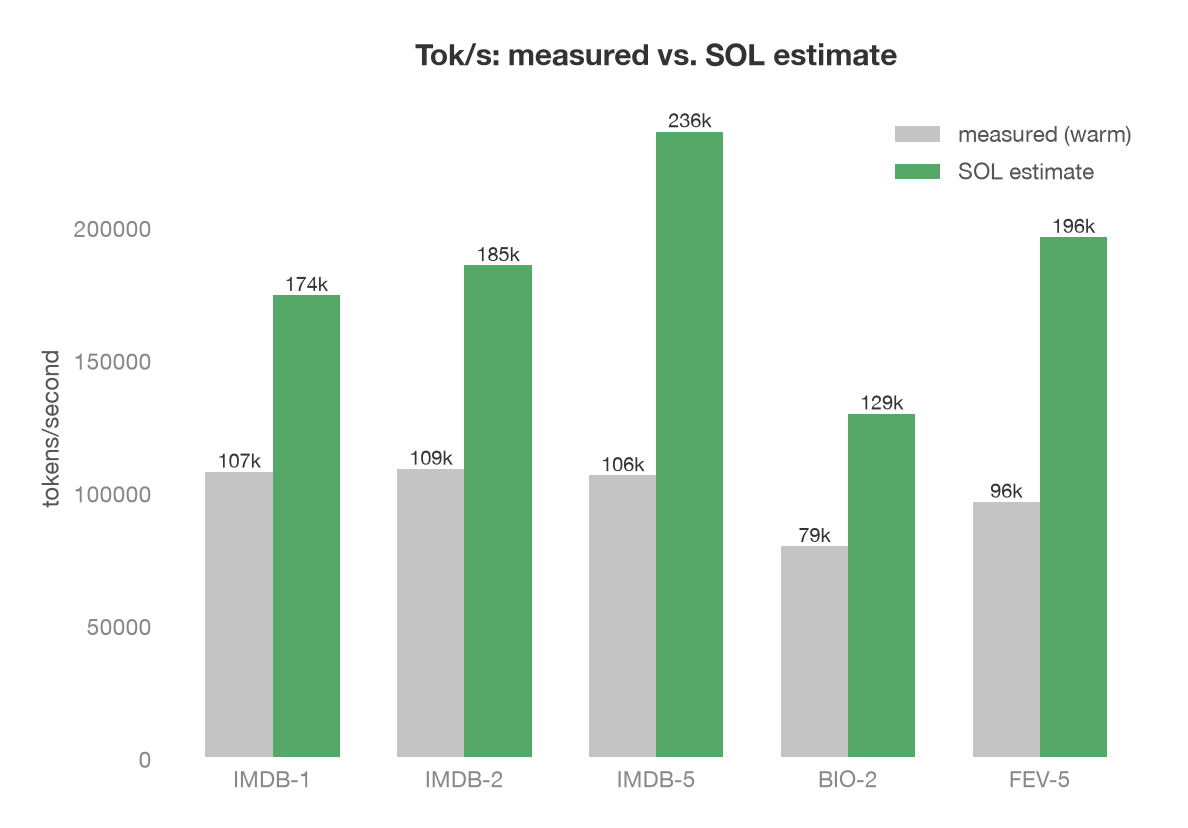
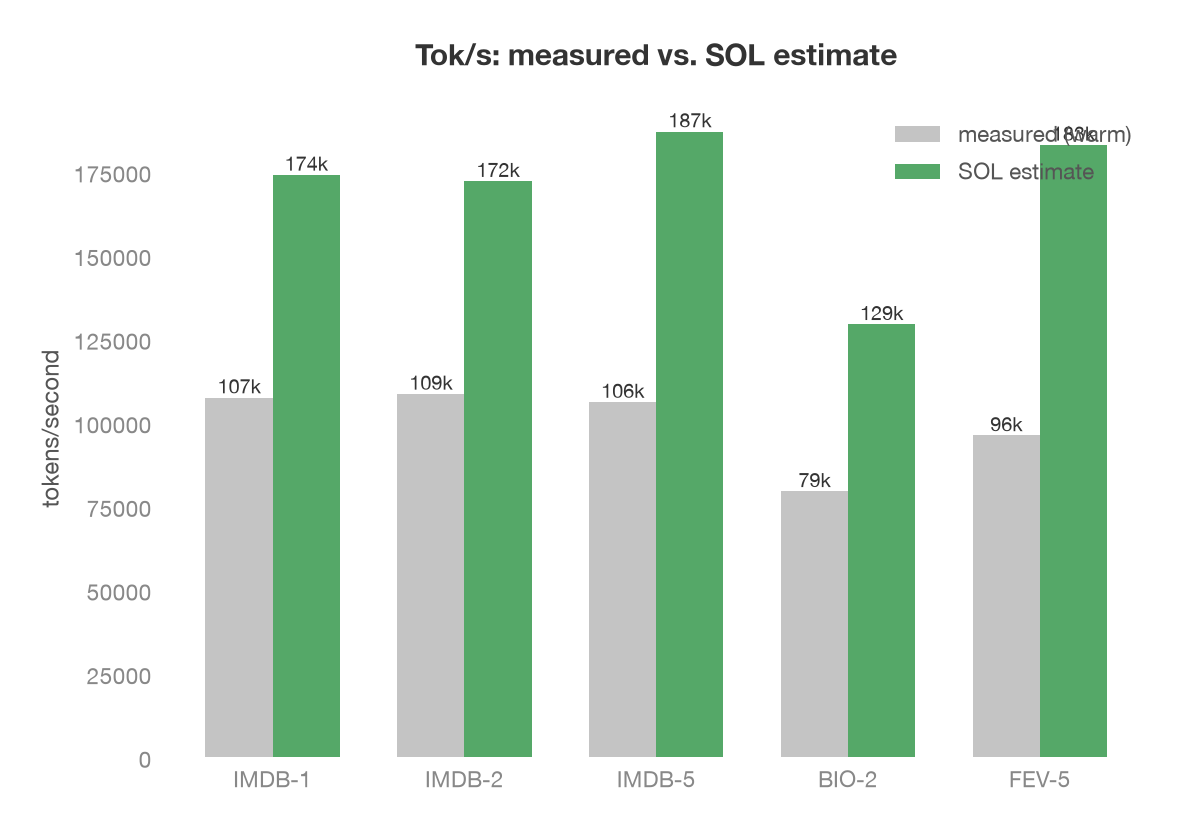
Fix tokens_per_s_sol mixing cold-pass tokens with warm-pass sol_s
build_rows() divided `tokens` (size_src, prefers the cold pass -
the full, restore-free corpus) by `sol_s` (rate_src, prefers the
warm pass - discounted for any KV-store restores). Whenever a query
had real restores, this stapled together two different passes'
numbers: docs_per_s_sol and cost_sol were unaffected (document count
doesn't change between passes, and cost_sol only uses sol_s), but
tokens_per_s_sol came out inflated, up to 26% on the validated data
(IMDB-5: 236k instead of 187k). Confirmed by checking the section's
own claimed invariant - SOL-to-measured ratio equals 1/efficiency -
against the real committed results: it held exactly for docs_per_s
and cost, but not tokens_per_s, for every query with restores.

Fixed by dividing sol_s against the same pass's own fresh_tokens
(rate_src, not size_src). Updated the one test that asserted the old
(buggy) cross-pass division, corrected the report's Tok/s (SOL)
column and prose, and regenerated sol_tokens_per_s.png. The other
three plots that script produces came out byte-identical, confirming
only this one field was affected. 247 tests pass.

diff --git a/quail/quail/bench/sol_report.py b/quail/quail/bench/sol_report.py
@@ -89,6 +89,16 @@ def build_rows(suite: dict) -> list[dict]:
         rate_src = warm if warm_ok else cold
         docs = _docs_count_of(size_src)
         tokens = size_src.get("fresh_tokens")
+        # tokens_per_s_sol divides fresh_tokens by sol_s - both must
+        # come from rate_src, not size_src: a restore-heavy warm pass
+        # has a smaller sol_s (session.py discounts restored
+        # documents) but size_src's tokens is the full cold-pass
+        # count with nothing restored. Dividing cold's tokens by
+        # warm's sol_s stapled together two different passes' numbers
+        # and inflated the ratio by up to ~26% on the validated data
+        # (IMDB-5) - docs_per_s_sol was unaffected since document
+        # count doesn't change between passes, only token count does.
+        sol_tokens = rate_src.get("fresh_tokens")
         sol_s = rate_src.get("sol_s")
         rows.append(dict(
             query=qid,
@@ -107,7 +117,8 @@ def build_rows(suite: dict) -> list[dict]:
             docs_per_s_sol=(
                 round(docs / sol_s, 1) if docs and sol_s else None),
             tokens_per_s_sol=(
-                round(tokens / sol_s) if tokens and sol_s else None),
+                round(sol_tokens / sol_s)
+                if sol_tokens and sol_s else None),
             cost_sol=_sol_cost(sol_s, gpus, cpu_memory_gb),
         ))
     return rows

diff --git a/quail/tests/test_sol_report.py b/quail/tests/test_sol_report.py
@@ -84,7 +84,13 @@ def test_build_rows_sol_derived_cost_and_rate_are_correctly_directioned():
     r = rows[0]
 
     assert r["docs_per_s_sol"] == round(r["docs"] / r["sol_s"], 1)
-    assert r["tokens_per_s_sol"] == round(r["tokens"] / r["sol_s"])
+    # tokens_per_s_sol must divide the WARM pass's own fresh_tokens
+    # (5,690,657) by sol_s, not r["tokens"] (6,124,233, the cold
+    # pass's count) - cold's larger, restore-free token count over
+    # warm's smaller, restore-discounted sol_s would staple together
+    # two different passes' numbers and inflate the rate (a real bug
+    # this test used to encode instead of catch).
+    assert r["tokens_per_s_sol"] == round(5_690_657 / r["sol_s"])
     assert r["cost_sol"] == _cost_dollars(
         r["sol_s"], 0.0, 1, 80, _modal_rates())
 

diff --git a/quail/reports/2026-08-23-sol-throughput-cost.md b/quail/reports/2026-08-23-sol-throughput-cost.md
@@ -759,10 +759,10 @@ when it's absent.
 | Query | Docs/s (warm) | Docs/s (SOL) | Tok/s (warm) | Tok/s (SOL) | Cost (warm) | Cost (SOL) |
 |---|---|---|---|---|---|---|
 | IMDB-1 | 303 | 490 | 107k | 174k | $0.0210 | $0.0130 |
-| IMDB-2 | 1,145 | 1,815 | 109k | 185k | $0.0668 | $0.0421 |
-| IMDB-5 | 242 | 426 | 106k | 236k | $0.0264 | $0.0150 |
+| IMDB-2 | 1,145 | 1,815 | 109k | 172k | $0.0668 | $0.0421 |
+| IMDB-5 | 242 | 426 | 106k | 187k | $0.0264 | $0.0150 |
 | BIO-2 | 860 | 1,400 | 79k | 129k | $0.1821 | $0.1118 |
-| FEV-5 | 28 | 54 | 96k | 196k | $0.0026 | $0.0013 |
+| FEV-5 | 28 | 54 | 96k | 183k | $0.0026 | $0.0013 |
 
 Figure: plots/sol_docs_per_s.png, plots/sol_tokens_per_s.png,
 plots/sol_cost_estimate.png
@@ -774,6 +774,20 @@ both the lowest efficiency (53%) and the widest relative gap (28
 measured vs. 54 SOL-estimated docs/s, a 1.90x spread); IMDB-2 has the
 highest efficiency (63%) and the narrowest gap (1.59x). No query
 breaks that ordering.
+
+**A second real bug this surfaced (2026-08-26)**: `tokens_per_s_sol`
+divided `tokens` (the cold-pass fresh-token count) by `sol_s` from
+`rate_src` (the warm pass). For the two queries with real KV-store
+restores that quarter (IMDB-2, IMDB-5) and FEV-5, warm's `sol_s` is
+discounted for restored documents but `tokens` still counted the full,
+restore-free cold-pass corpus - two different passes' numbers divided
+against each other. The `1 / efficiency` invariant this section states
+held exactly for `docs_per_s_sol` and `cost_sol` (document count and
+`sol_s` both track a single pass consistently) but not for
+`tokens_per_s_sol`, which came out up to 26% too high (IMDB-5: 236k
+instead of 187k). Fixed by dividing `sol_s` against the same pass's
+own `fresh_tokens` (`rate_src`, not `size_src`) - the table above and
+`plots/sol_tokens_per_s.png` are the corrected numbers.
 
 6 new tests (`docs_per_s_sol`/`tokens_per_s_sol`/`cost_sol` computed
 correctly, the direction invariant on real validated data - SOL rate
